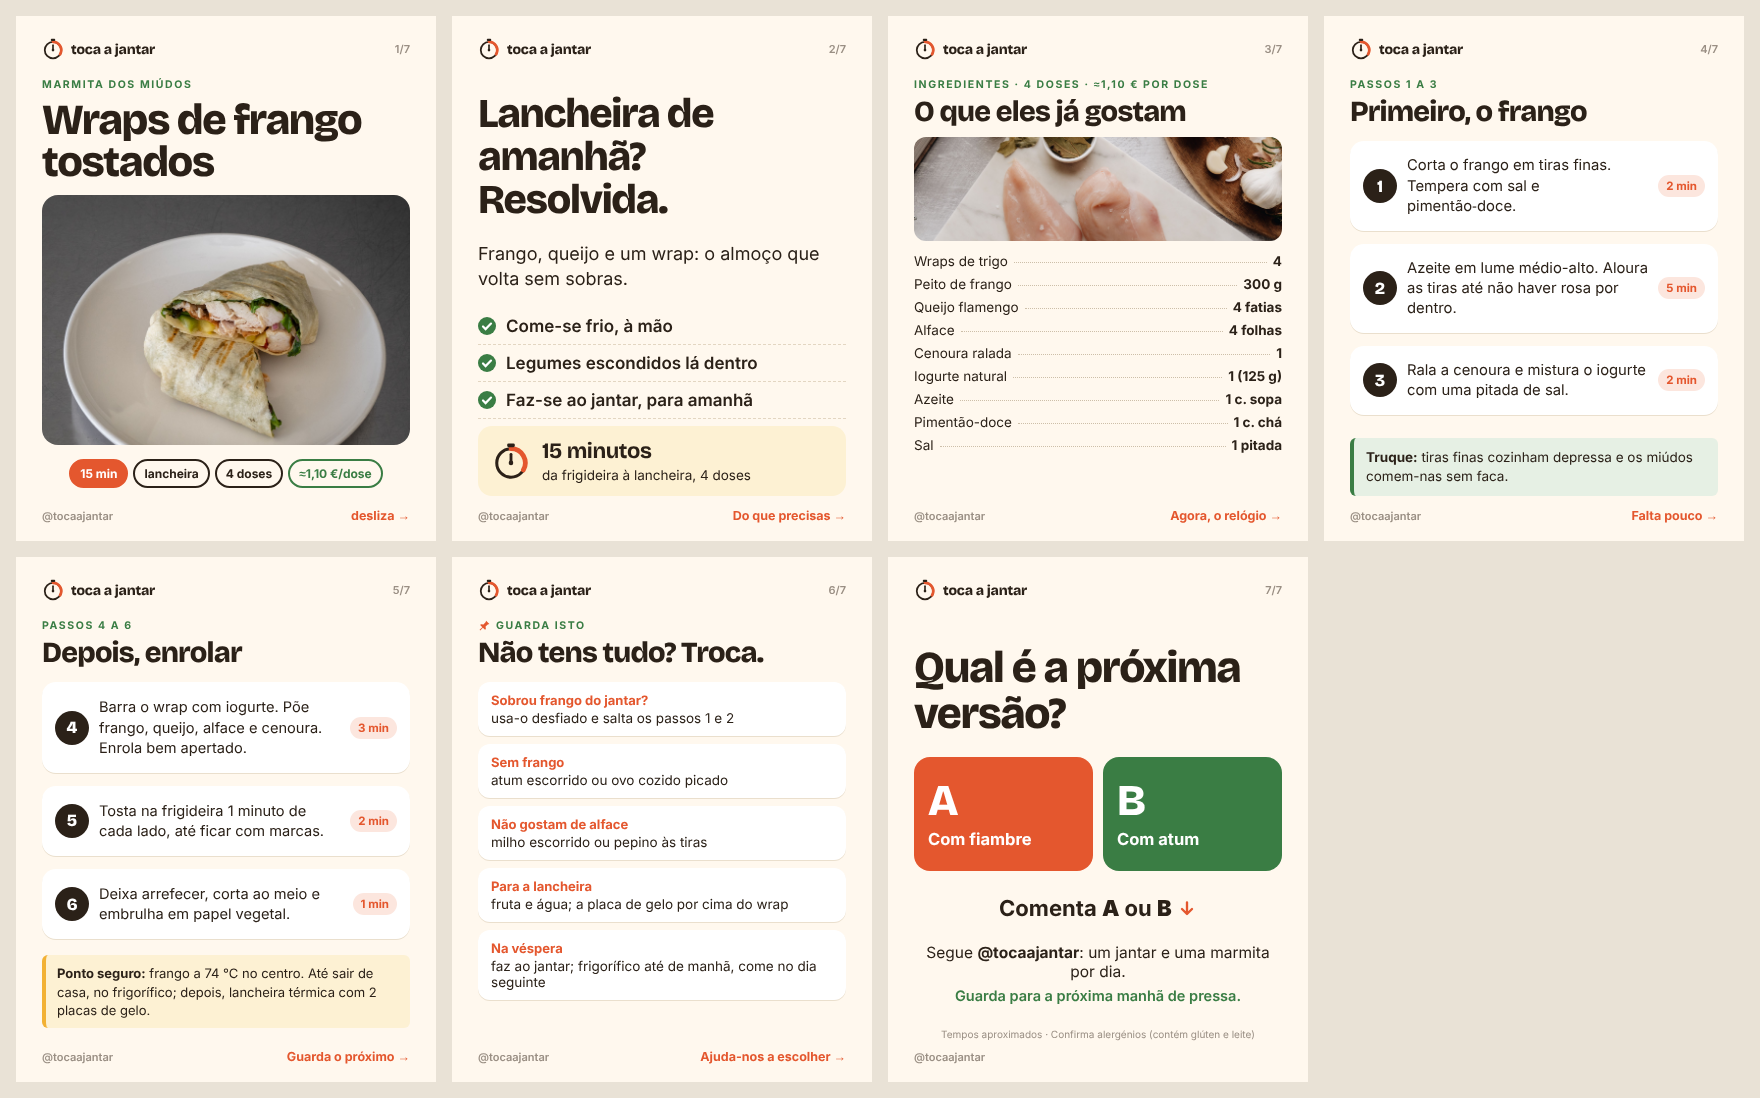
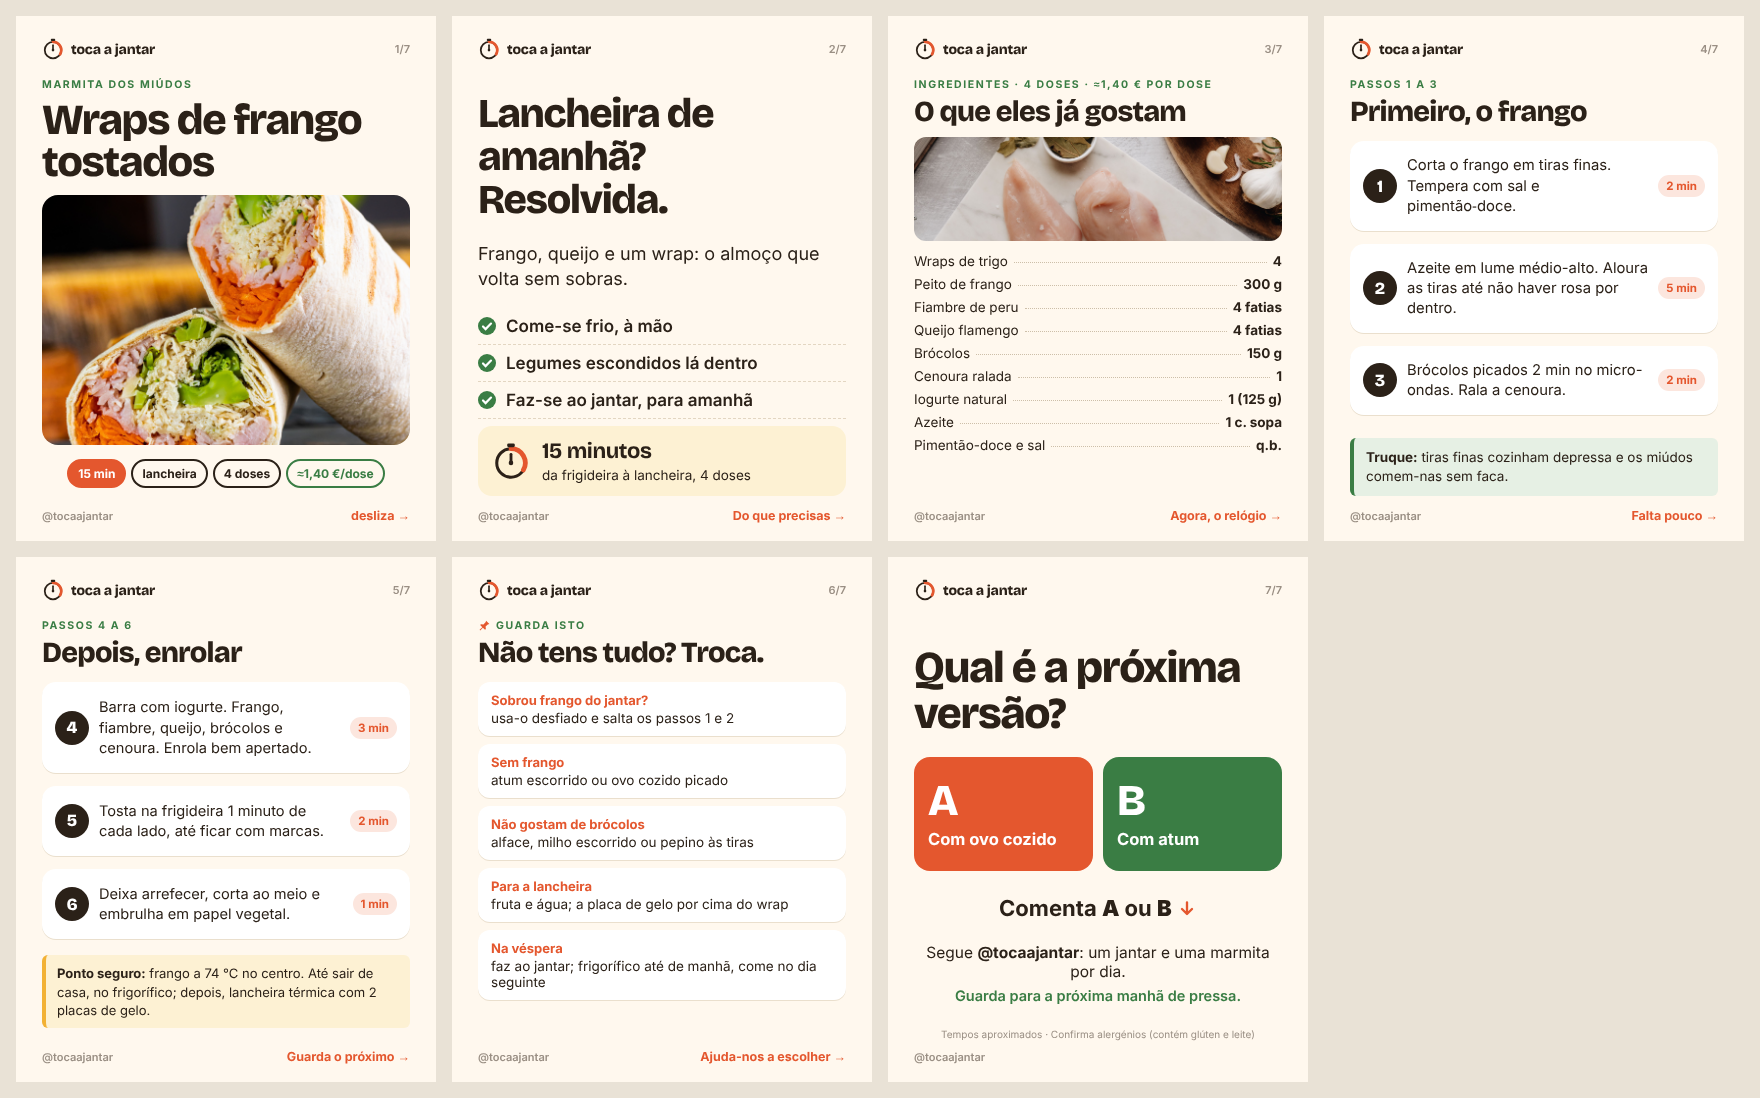
Wraps refeitos com capa nova e receita ajustada; a partir de agora a dona da página publica (secção 16)
Claude-Session: https://claude.ai/code/session_014s2jag7AAEJcbs8pU4aB9z

diff --git a/daily/2026-11-23-miudos-wraps-frango/carousel.html b/daily/2026-11-23-miudos-wraps-frango/carousel.html
@@ -82,7 +82,7 @@ h2.big{font-size:40px;letter-spacing:-1.3px;margin-top:22px}
   <div class="kicker">MARMITA DOS MIÚDOS</div>
   <h1>Wraps de frango tostados</h1>
   <img class="hero" src="fotos/capa.jpg" alt="">
-  <div class="chips"><span class="chip red">15 min</span><span class="chip">lancheira</span><span class="chip">4 doses</span><span class="chip cost">≈1,10&nbsp;€/dose</span></div>
+  <div class="chips"><span class="chip red">15 min</span><span class="chip">lancheira</span><span class="chip">4 doses</span><span class="chip cost">≈1,40&nbsp;€/dose</span></div>
 </div>
   <footer><span class="handle">@tocaajantar</span><span class="teaser">desliza →</span></footer>
 </section><section class="slide s2" id="s2">
@@ -106,10 +106,10 @@ h2.big{font-size:40px;letter-spacing:-1.3px;margin-top:22px}
 <rect x="16" y="1.5" width="8" height="4" rx="1.5" fill="#2B2118"/><line x1="20" y1="22" x2="20" y2="13" stroke="#2B2118" stroke-width="3" stroke-linecap="round"/>
 <circle cx="20" cy="22" r="2.4" fill="#2B2118"/></svg><span>toca a jantar</span></div><span class="count">3/7</span></header>
   <div class="body">
-  <div class="kicker">INGREDIENTES · 4 DOSES · ≈1,10&nbsp;€ POR DOSE</div>
+  <div class="kicker">INGREDIENTES · 4 DOSES · ≈1,40&nbsp;€ POR DOSE</div>
   <h2>O que eles já gostam</h2>
   <img class="flat" src="fotos/ingredientes.jpg" alt="">
-  <ul class="ing compact"><li><span>Wraps de trigo</span><i></i><b>4</b></li><li><span>Peito de frango</span><i></i><b>300 g</b></li><li><span>Queijo flamengo</span><i></i><b>4 fatias</b></li><li><span>Alface</span><i></i><b>4 folhas</b></li><li><span>Cenoura ralada</span><i></i><b>1</b></li><li><span>Iogurte natural</span><i></i><b>1 (125 g)</b></li><li><span>Azeite</span><i></i><b>1 c. sopa</b></li><li><span>Pimentão-doce</span><i></i><b>1 c. chá</b></li><li><span>Sal</span><i></i><b>1 pitada</b></li></ul>
+  <ul class="ing compact"><li><span>Wraps de trigo</span><i></i><b>4</b></li><li><span>Peito de frango</span><i></i><b>300 g</b></li><li><span>Fiambre de peru</span><i></i><b>4 fatias</b></li><li><span>Queijo flamengo</span><i></i><b>4 fatias</b></li><li><span>Brócolos</span><i></i><b>150 g</b></li><li><span>Cenoura ralada</span><i></i><b>1</b></li><li><span>Iogurte natural</span><i></i><b>1 (125 g)</b></li><li><span>Azeite</span><i></i><b>1 c. sopa</b></li><li><span>Pimentão-doce e sal</span><i></i><b>q.b.</b></li></ul>
 </div>
   <footer><span class="handle">@tocaajantar</span><span class="teaser">Agora, o relógio →</span></footer>
 </section><section class="slide " id="s4">
@@ -124,7 +124,7 @@ h2.big{font-size:40px;letter-spacing:-1.3px;margin-top:22px}
   <div class="steps">
   <div class="step"><div class="num">1</div><p>Corta o frango em tiras finas. Tempera com sal e pimentão&#8209;doce.</p><div class="min">2&nbsp;min</div></div>
   <div class="step"><div class="num">2</div><p>Azeite em lume médio-alto. Aloura as tiras até não haver rosa por dentro.</p><div class="min">5&nbsp;min</div></div>
-  <div class="step"><div class="num">3</div><p>Rala a cenoura e mistura o iogurte com uma pitada de sal.</p><div class="min">2&nbsp;min</div></div>
+  <div class="step"><div class="num">3</div><p>Brócolos picados 2 min no micro-ondas. Rala a cenoura.</p><div class="min">2&nbsp;min</div></div>
   </div>
   <div class="tip"><b>Truque:</b> tiras finas cozinham depressa e os miúdos comem-nas sem faca.</div>
 </div>
@@ -138,7 +138,7 @@ h2.big{font-size:40px;letter-spacing:-1.3px;margin-top:22px}
   <div class="kicker">PASSOS 4 A 6</div>
   <h2>Depois, enrolar</h2>
   <div class="steps">
-  <div class="step"><div class="num">4</div><p>Barra o wrap com iogurte. Põe frango, queijo, alface e cenoura. Enrola bem apertado.</p><div class="min">3&nbsp;min</div></div>
+  <div class="step"><div class="num">4</div><p>Barra com iogurte. Frango, fiambre, queijo, brócolos e cenoura. Enrola bem apertado.</p><div class="min">3&nbsp;min</div></div>
   <div class="step"><div class="num">5</div><p>Tosta na frigideira 1 minuto de cada lado, até ficar com marcas.</p><div class="min">2&nbsp;min</div></div>
   <div class="step"><div class="num">6</div><p>Deixa arrefecer, corta ao meio e embrulha em papel vegetal.</p><div class="min">1&nbsp;min</div></div>
   </div>
@@ -156,7 +156,7 @@ h2.big{font-size:40px;letter-spacing:-1.3px;margin-top:22px}
   <ul class="swap">
    <li><b>Sobrou frango do jantar?</b><span>usa-o desfiado e salta os passos 1 e 2</span></li>
    <li><b>Sem frango</b><span>atum escorrido ou ovo cozido picado</span></li>
-   <li><b>Não gostam de alface</b><span>milho escorrido ou pepino às tiras</span></li>
+   <li><b>Não gostam de brócolos</b><span>alface, milho escorrido ou pepino às tiras</span></li>
    <li><b>Para a lancheira</b><span>fruta e água; a placa de gelo por cima do wrap</span></li>
    <li><b>Na véspera</b><span>faz ao jantar; frigorífico até de manhã, come no dia seguinte</span></li>
   </ul>
@@ -169,7 +169,7 @@ h2.big{font-size:40px;letter-spacing:-1.3px;margin-top:22px}
 <circle cx="20" cy="22" r="2.4" fill="#2B2118"/></svg><span>toca a jantar</span></div><span class="count">7/7</span></header>
   <div class="body">
   <h2 class="big">Qual é a próxima versão?</h2>
-  <div class="vote"><div class="btn a"><b>A</b>Com fiambre</div><div class="btn b"><b>B</b>Com atum</div></div>
+  <div class="vote"><div class="btn a"><b>A</b>Com ovo cozido</div><div class="btn b"><b>B</b>Com atum</div></div>
   <p class="cta">Comenta <b>A</b> ou <b>B</b> <svg viewBox="0 0 24 24" class="down"><path d="M12 4v14M6 12l6 6 6-6" fill="none" stroke="#E4572E" stroke-width="2.8" stroke-linecap="round" stroke-linejoin="round"/></svg></p>
   <p class="follow">Segue <b>@tocaajantar</b>: um jantar e uma marmita por dia.</p>
   <p class="saveline">Guarda para a próxima manhã de pressa.</p>

diff --git a/daily/2026-11-23-miudos-wraps-frango/story.html b/daily/2026-11-23-miudos-wraps-frango/story.html
@@ -12,6 +12,6 @@ body{width:1080px;height:1920px;background:#FFF8EE;font-family:'Inter';color:#2B
 </style></head><body>
 <div class="card"><img src="file:///home/user/Instagram-/daily/2026-11-23-miudos-wraps-frango/story_card.png"></div>
 <div class="band">NOVO POST <svg viewBox="0 0 20 20"><path d="M5 3l12 7-12 7z" fill="#fff"/></svg> DESLIZA NO NOSSO PERFIL</div>
-<div class="q">Próxima versão: com fiambre (A) ou com atum (B)?</div>
+<div class="q">Próxima versão: com ovo cozido (A) ou com atum (B)?</div>
 <div class="h">@tocaajantar</div>
 </body></html>

diff --git a/daily/2026-11-23-miudos-wraps-frango/build.py b/daily/2026-11-23-miudos-wraps-frango/build.py
@@ -8,7 +8,7 @@ HANDLE = "@tocaajantar"
 # GANCHO do slide 2: MUDA TODOS OS DIAS (nunca repetir o da semana anterior; ver report/ganchos.txt)
 GANCHO = "Lancheira de amanhã?<br>Resolvida."
 # CUSTO aproximado por pessoa (conta em sources.md, preços de supermercado PT do mês)
-CUSTO = "≈1,10&nbsp;€"
+CUSTO = "≈1,40&nbsp;€"
 # REGRA N.º 1: só fotografias reais (alimentos, ingredientes, prato final e acessórios).
 # Se faltar uma foto, aparece um aviso FALTA FOTO REAL e o export final recusa-se a correr.
 FOTO_CAPA = HERE / "fotos" / "capa.jpg"            # prato acabado, visto de cima
@@ -53,9 +53,9 @@ slides.append(frame(2, f"""
   <div class="promise">{LOGO}<div><b>15 minutos</b><span>da frigideira à lancheira, 4 doses</span></div></div>
 """, "Do que precisas →", "s2"))
 
-ING = [("Wraps de trigo", "4"), ("Peito de frango", "300 g"), ("Queijo flamengo", "4 fatias"),
-       ("Alface", "4 folhas"), ("Cenoura ralada", "1"), ("Iogurte natural", "1 (125 g)"),
-       ("Azeite", "1 c. sopa"), ("Pimentão-doce", "1 c. chá"), ("Sal", "1 pitada")]
+ING = [("Wraps de trigo", "4"), ("Peito de frango", "300 g"), ("Fiambre de peru", "4 fatias"),
+       ("Queijo flamengo", "4 fatias"), ("Brócolos", "150 g"), ("Cenoura ralada", "1"),
+       ("Iogurte natural", "1 (125 g)"), ("Azeite", "1 c. sopa"), ("Pimentão-doce e sal", "q.b.")]
 rows = "".join(f'<li><span>{a}</span><i></i><b>{b}</b></li>' for a, b in ING)
 slides.append(frame(3, f"""
   <div class="kicker">INGREDIENTES · 4 DOSES · {CUSTO} POR DOSE</div>
@@ -71,7 +71,7 @@ slides.append(frame(4, f"""
   <div class="steps">
   {step(1, "Corta o frango em tiras finas. Tempera com sal e pimentão&#8209;doce.", "2&nbsp;min")}
   {step(2, "Azeite em lume médio-alto. Aloura as tiras até não haver rosa por dentro.", "5&nbsp;min")}
-  {step(3, "Rala a cenoura e mistura o iogurte com uma pitada de sal.", "2&nbsp;min")}
+  {step(3, "Brócolos picados 2 min no micro-ondas. Rala a cenoura.", "2&nbsp;min")}
   </div>
   <div class="tip"><b>Truque:</b> tiras finas cozinham depressa e os miúdos comem-nas sem faca.</div>
 """, "Falta pouco →"))
@@ -80,7 +80,7 @@ slides.append(frame(5, f"""
   <div class="kicker">PASSOS 4 A 6</div>
   <h2>Depois, enrolar</h2>
   <div class="steps">
-  {step(4, "Barra o wrap com iogurte. Põe frango, queijo, alface e cenoura. Enrola bem apertado.", "3&nbsp;min")}
+  {step(4, "Barra com iogurte. Frango, fiambre, queijo, brócolos e cenoura. Enrola bem apertado.", "3&nbsp;min")}
   {step(5, "Tosta na frigideira 1 minuto de cada lado, até ficar com marcas.", "2&nbsp;min")}
   {step(6, "Deixa arrefecer, corta ao meio e embrulha em papel vegetal.", "1&nbsp;min")}
   </div>
@@ -93,7 +93,7 @@ slides.append(frame(6, f"""
   <ul class="swap">
    <li><b>Sobrou frango do jantar?</b><span>usa-o desfiado e salta os passos 1 e 2</span></li>
    <li><b>Sem frango</b><span>atum escorrido ou ovo cozido picado</span></li>
-   <li><b>Não gostam de alface</b><span>milho escorrido ou pepino às tiras</span></li>
+   <li><b>Não gostam de brócolos</b><span>alface, milho escorrido ou pepino às tiras</span></li>
    <li><b>Para a lancheira</b><span>fruta e água; a placa de gelo por cima do wrap</span></li>
    <li><b>Na véspera</b><span>faz ao jantar; frigorífico até de manhã, come no dia seguinte</span></li>
   </ul>
@@ -101,7 +101,7 @@ slides.append(frame(6, f"""
 
 slides.append(frame(7, f"""
   <h2 class="big">Qual é a próxima versão?</h2>
-  <div class="vote"><div class="btn a"><b>A</b>Com fiambre</div><div class="btn b"><b>B</b>Com atum</div></div>
+  <div class="vote"><div class="btn a"><b>A</b>Com ovo cozido</div><div class="btn b"><b>B</b>Com atum</div></div>
   <p class="cta">Comenta <b>A</b> ou <b>B</b> {DOWN}</p>
   <p class="follow">Segue <b>{HANDLE}</b>: um jantar e uma marmita por dia.</p>
   <p class="saveline">Guarda para a próxima manhã de pressa.</p>

diff --git a/BRAND.md b/BRAND.md
@@ -502,3 +502,9 @@ mkdir -p assets/fonts
 - **Sem acordo com a marca** (o caso atual): nada de #publicidade, #parceria ou #oferta, e nada que dê a entender que a marca patrocina ou aprova. Junta o convite de colaboração no Metricool (`instagramData.collaborators: [{"username":"pescanova_pt","deleted":false}]`); a marca aceita ou não.
 - **Se um dia houver acordo** (dinheiro, produto oferecido ou combinação): é obrigatório pôr **#parceria** ou **#oferta** no início da legenda (guia da DGC).
 - As fotos continuam a seguir a Regra n.º 1. Fotos oficiais da marca só com autorização escrita.
+
+## 16. Quem publica (desde 23/11/2026)
+**O Claude NÃO publica nem agenda nada no Metricool.** Depois da aprovação, entrega à dona da página, com SendUserFile:
+- `slide_1.jpg` … `slide_7.jpg` (1080×1350) e `story.jpg` (1080×1920);
+- `PUBLICAR.txt`, com os passos, a legenda, o primeiro comentário, a sondagem da Story e, quando houver, a colaboração (ex.: convidar @pescanova_pt).
+É ela que publica, põe a música e fixa o comentário. O Metricool continua a servir para as estatísticas e para a melhor hora (que o Claude indica na mensagem).

diff --git a/weekly_plan.md b/weekly_plan.md
@@ -23,7 +23,7 @@ O voto A/B de dia 22 (com chouriço ou com espinafres) decide uma variação dos
 ### Marmita dos Miúdos (18:30, dias de escola; as fotos reais confirmam-se no dia)
 | Dia | Marmita |
 |---|---|
-| Seg 23 | Wraps de frango tostados · publicado a 23/11 às 18:15 (Story às 18:20) |
+| Seg 23 | Wraps de frango tostados · publicado a 23/11 às 18:15 com capa fraca; refeito com a capa nova (Pexels 15010305) e entregue para a dona da página publicar |
 | Ter 24 | Massa fria com atum, milho e tomate-cereja |
 | Qua 25 | **Douradinhos caseiros de pescada na air fryer** com medalhões Pescanova, sem pele nem espinhas (menção à @pescanova_pt na legenda e no slide 6 + convite de colaboração no Metricool; SEM indicação de parceria, porque não há acordo). "Ponto seguro": confirmar espinhas e lancheira com placa de gelo ou termo. Almôndegas passam para outra semana. |
 | Qui 26 | Muffins salgados de ovo, queijo e legumes |
